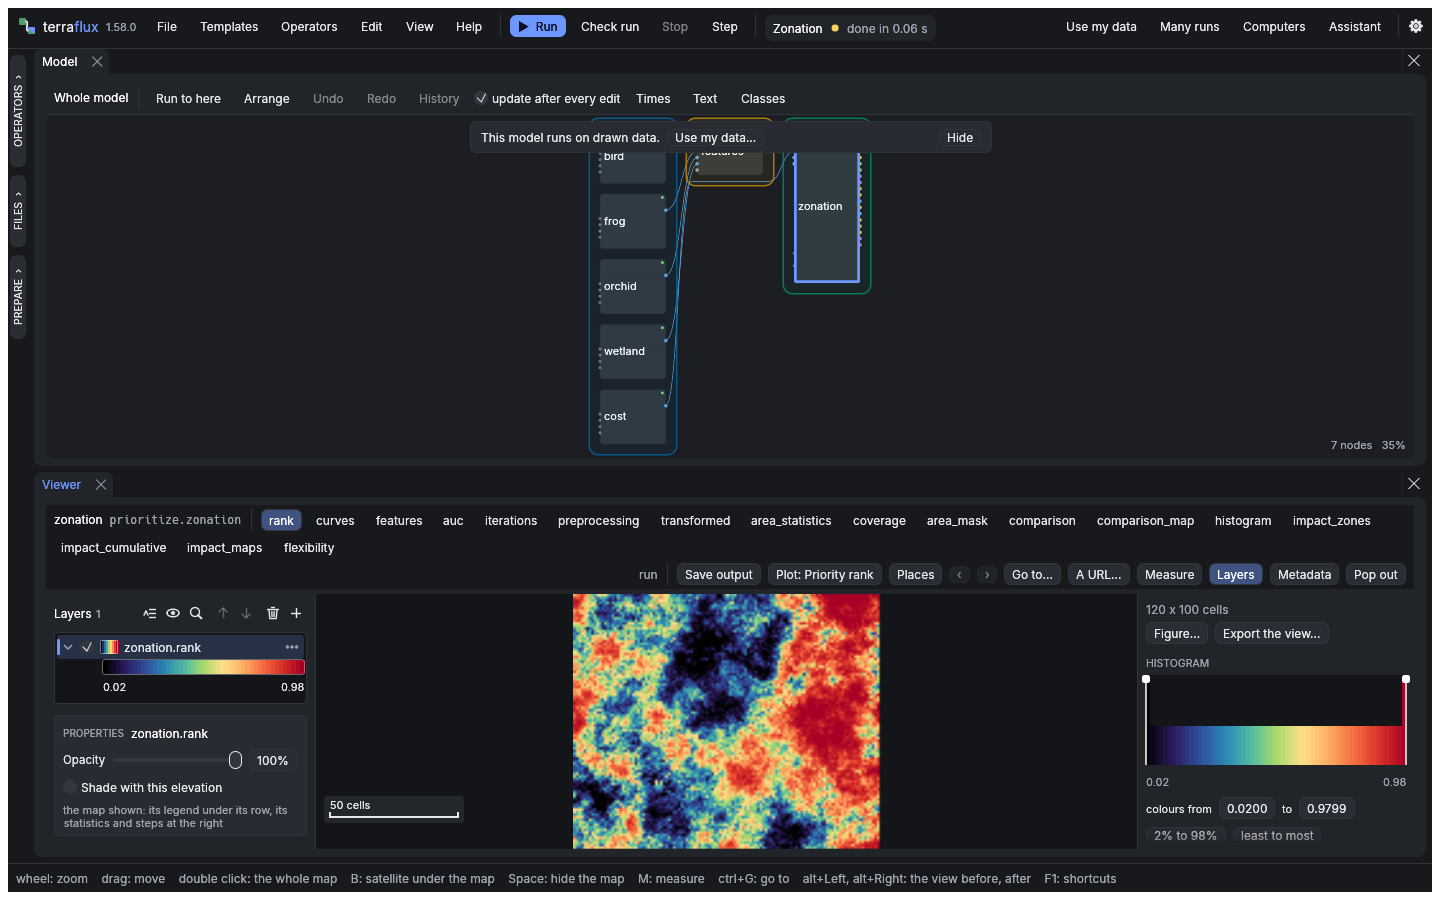
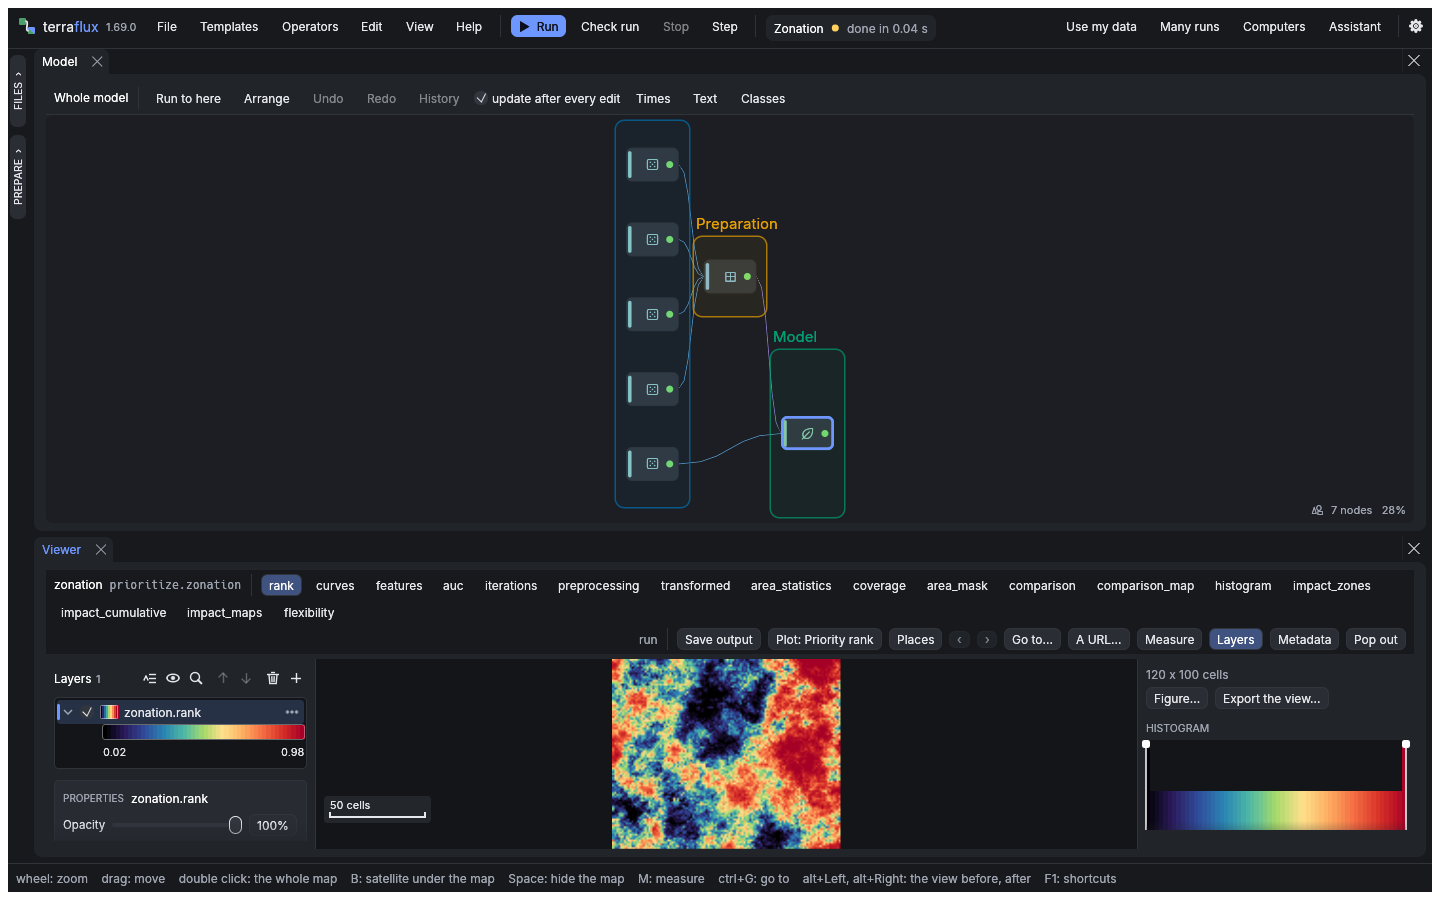
docs: the README's pictures drawn again with 1.69.0's nodes; the templates' pictures with whole boxes, a taller model pane and the Use my data strip hidden

diff --git a/crates/app/tests/readme_images.rs b/crates/app/tests/readme_images.rs
@@ -115,10 +115,18 @@ fn save(h: &mut Harness<TerrafluxApp>, name: &str) {
 /// Node pane (a node's settings are on its box and in the panel beside it), the operators and the preparation in
 /// their drawers at the window's left edge.
 fn layout(below: Vec<Pane>) -> DockState<Pane> {
+    layout_at(below, 0.52)
+}
+
+/// [`layout`] with the model taking `share` of the height.
+fn layout_at(below: Vec<Pane>, share: f32) -> DockState<Pane> {
     let mut d = DockState::new(vec![Pane::Model]);
-    d.main_surface_mut().split_below(NodeIndex::root(), 0.52, below);
+    d.main_surface_mut().split_below(NodeIndex::root(), share, below);
     d
 }
+
+/// The share of the height the model takes in the pictures of templates: room for whole boxes and their thumbnails.
+const MODEL_SHARE: f32 = 0.6;
 
 /// A template run, its graph over the Viewer showing the plot `front`, the node `select` selected.
 fn template(h: &mut Harness<TerrafluxApp>, name: &str, select: &str, front: &str) {
@@ -131,10 +139,29 @@ fn template(h: &mut Harness<TerrafluxApp>, name: &str, select: &str, front: &str
     // (the Viewer shows the Plot asked for, the node asked for selected)
     terraflux_app::builder::open_plot(s, &terraflux_ops::Registry::standard(), front);
     s.selected = Some(select.to_string());
-    a.dock = Some(layout(vec![Pane::Viewer]));
+    // (the strip that offers Use my data hidden: it would cover the top of the graph)
+    s.my_data.hidden = true;
+    a.dock = Some(layout_at(vec![Pane::Viewer], MODEL_SHARE));
     h.run_steps(3);
     let a = h.state_mut();
     a.session.as_mut().unwrap().editor.fit();
+}
+
+/// The canvas brought to `zoom` at least, about the middle of the Model pane: a fit that leaves the boxes as
+/// compact chips (their names cut) shows them whole, their ports and settings, as a picture of the builder should.
+fn whole_boxes(h: &mut Harness<TerrafluxApp>, zoom: f32) {
+    h.run_steps(3);
+    let e = &mut h.state_mut().session.as_mut().unwrap().editor;
+    let (Some(cam), Some(origin)) = (e.camera(), e.screen_at(egui::Pos2::ZERO)) else { return };
+    if cam.zoom >= zoom {
+        return;
+    }
+    // (the canvas's corner on the screen; the middle of the Model pane, above the Viewer, under the bars)
+    let corner = origin - cam.pan;
+    let middle = egui::pos2(SIZE.0 / 2.0, (corner.y + SIZE.1 * MODEL_SHARE) / 2.0);
+    let at = (middle - origin) / cam.zoom;
+    e.set_camera(middle - corner - at * zoom, zoom);
+    h.run_steps(3);
 }
 
 #[test]
@@ -143,6 +170,7 @@ fn readme_images() {
     // the builder: a forest's fragmentation, its graph over its maps
     let mut h = harness();
     template(&mut h, "Fragmentation of a forest", "fos", "plot_fos");
+    whole_boxes(&mut h, 0.65);
     save(&mut h, "builder.png");
 
     // conservation planning: Zonation's priority rank
@@ -153,6 +181,7 @@ fn readme_images() {
     // land change: a city that grows in a loop
     let mut h = harness();
     template(&mut h, "A city that grows (a loop)", "growth", "plot_city");
+    whole_boxes(&mut h, 0.6);
     save(&mut h, "land-change.png");
 
     // the satellite under a land use map
